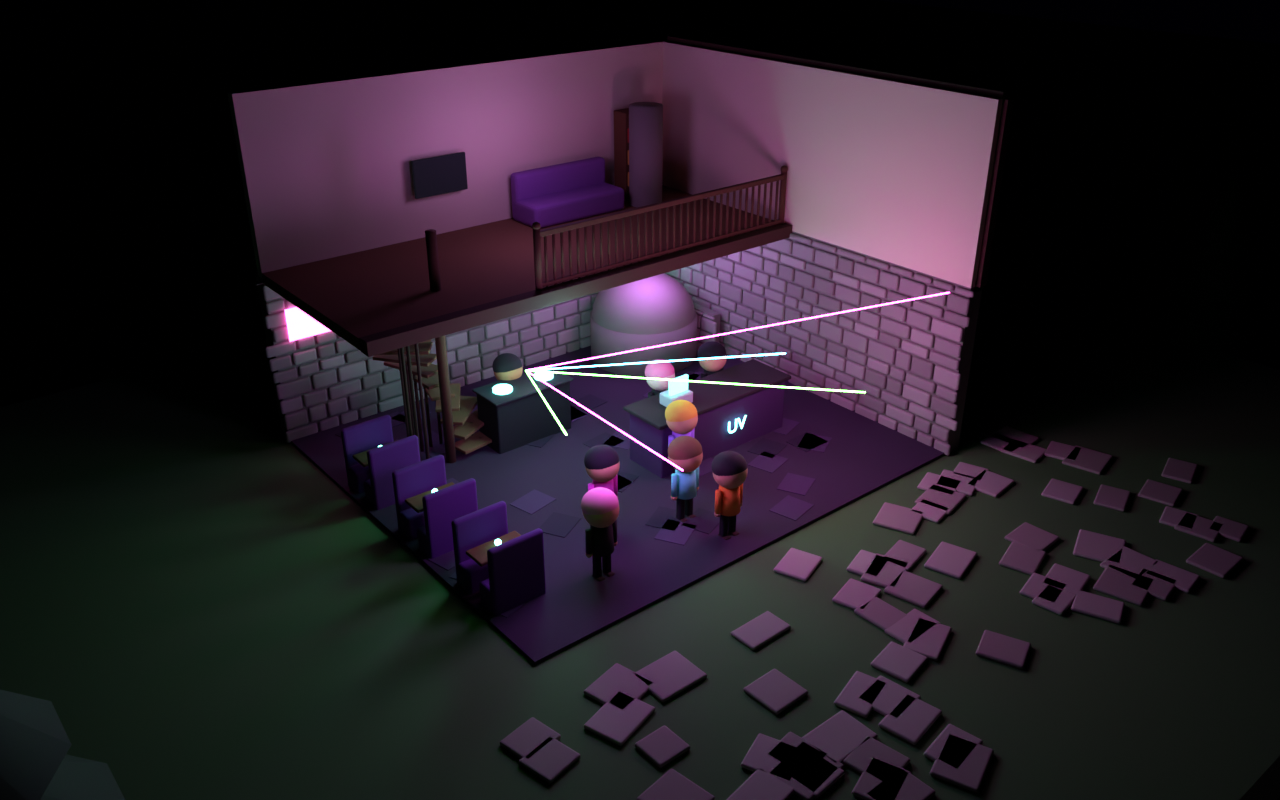
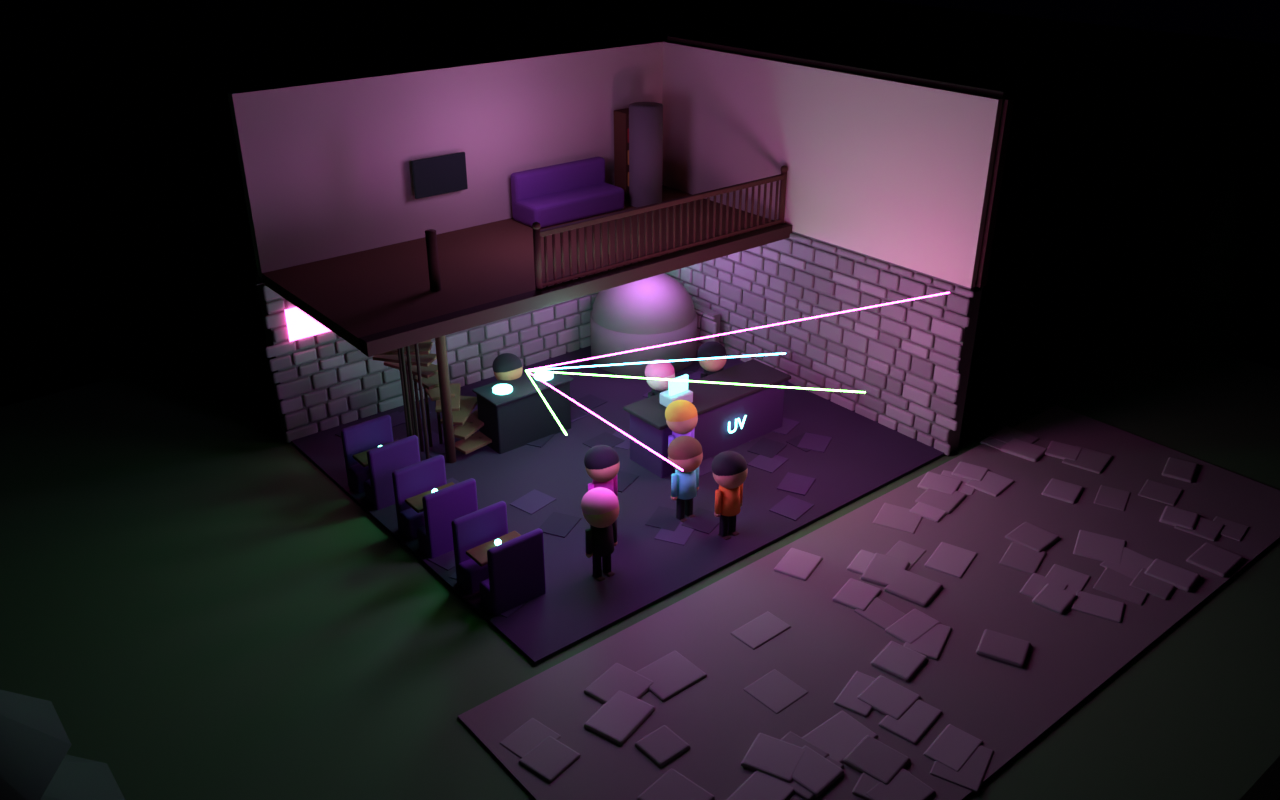
Summit Slice renders re-made (clean cobbles and floor, lean-to annex roof); spec for inspect, whisper, busy bubbles and the shops' music and sound (design/social-and-sound.md)
Claude-Session: https://claude.ai/code/session_01AhHjg2zGLBS9XHge4JaZVX

diff --git a/world-refresh/design/social-and-sound.md b/world-refresh/design/social-and-sound.md
@@ -1,0 +1,87 @@
+# Inspect, whisper, busy bubbles, and shop music (Andrew, 2026-11-16)
+
+Spec of what Andrew asked for, plus what exists and a build plan. Nothing here is built yet.
+
+## 1. Tap / click a player or NPC: a small menu
+- Tap or click any player or NPC: a small pop-up with **Inspect** and **Whisper**.
+
+### Inspect: the character sheet
+- A larger, rotatable view of the character model (drag to turn).
+- **NPC:** who they are and what they do (from `design/characters.md`: name, role, where they work, a line about them).
+- **Player:** who they are, their dog affection levels (Nala, Dax, Molly), their achievements.
+
+### Whisper: private messages
+- To a player or an NPC. Only the sender and receiver ever see it.
+- In the chat log: light purple text.
+- In the world: a speech balloon with a purple outline, visible only to the two involved.
+- **Talking to an NPC directly** = whispering them.
+- **Talking to an NPC indirectly:** type their name, then the message (e.g. "Kevin, how are the fish?"). That focuses the NPC on you.
+  Once you leave their general vicinity the focus resets.
+- No other player can ever see NPC-to-player whispers, or NPCs' replies to them. Players can whisper each other.
+
+### Busy bubble
+- A player in a tutorial, reading something, or in a menu shows a small balloon over their head with three dots that bounce in
+  sequence, so others can see they are busy.
+
+## 2. Music and sound for the new shops
+
+### What exists (breneland-live/js)
+- `music.js`, `music-songs.js`, `music-band.js`, `music-sampler.js`, `music-place.js`: the game's own composed music, played on
+  sampled instruments. Songs are picked by place (yard, town, lake, woods, Lovecraft house, game store, fishing, Kevin's boat) and
+  by hour (brighter mornings, mellower evenings, sparse late). Crossfades between places like a door closing.
+- Game store: counter-talk and high-score songs; D&D back room has its own sound (`dnd-sound.js`). Andrew likes this soundscape.
+- Kevin's Tool Crib: his radio (`crib-sound.js`). Boat: `boat-music.js`. Summit Slice party: `mall-staff-party-sound.js`.
+
+### Wanted
+- **Wooden buildings creak:** every so often boards creak as people walk around and the building settles. Especially the game store,
+  and every new wooden store. Soft, atmospheric, not constant.
+- **Peak Threads:** its own song, the same piece re-voiced through the day:
+  - morning: lighter;
+  - day: standard;
+  - evening, as the day wraps up: lo-fi.
+- **Belinda's Spa (upstairs):** a different, subtly relaxing and calming piece "with a little spice".
+- **Shop ambience** in Peak Threads: hangers sliding, the till, folding, soft footsteps, quiet chatter. Gentle, never intrusive.
+- **Summit Slice by day:** pizza-place vibe, re-voiced over the day the same way.
+- **Summit Slice party** (Wed, Fri and Sat, 11:30 pm to 5 am; the shop swaps about 15 minutes either side):
+  - intense music you can dance to, lo-fi to hi-fi;
+  - "musical guest" sets, all kinds of styles;
+  - the theme is getting down.
+- **Unstable Unicorns area:**
+  - The closer you get to the set, the more the normal music fades out and the area's music fades in.
+  - Magical, light-hearted, poppy, fun tabletop-card-game music in a fantasy setting, re-voiced by time of day.
+  - Real magical sound effects: chimes, shimmer, soft whooshes, sparkles. NOT beeps and boops.
+- **Holiday remixes**, Thanksgiving and Christmas only for now: slight remixes of the shop and area songs.
+
+## 3. Build plan (order)
+1. **Busy bubble.**
+   - The client sends a "busy" flag when a tutorial, a reader or a menu opens.
+   - Everyone draws three bouncing dots over that player.
+   - Needs a small server relay of the flag; it can ride along with the position updates if the server forwards extra fields.
+2. **Tap menu + Inspect, NPCs first.**
+   - Raycast on tap or click.
+   - Pop-up menu, then a sheet with its own small renderer of the model (rotatable).
+   - Facts come from `design/characters.md`, as a JSON export.
+3. **Inspect for players.**
+   - Needs the player's dog affection and achievements.
+   - Their own are local; another player's need a server lookup.
+4. **Whisper.**
+   - Player to player needs a server message that goes only to the target (`{t:'whisper', to, text}`).
+   - The server code is NOT in this repo mirror. Needs the Breneland-Next server, or Andrew adds the relay.
+   - Player to NPC can be fully local (only you see it): the purple balloon is drawn only on your screen.
+   - The NPC replies via the local LLM (LM Studio) using `design/characters.md`.
+5. **Indirect address.**
+   - Chat starting with an NPC's name focuses that NPC on you, privately, while you are near.
+   - The focus resets when you walk away.
+6. **Sound:**
+   - creak layer for wooden interiors;
+   - Peak Threads day song with morning, day and evening voicings, plus shop ambience;
+   - the spa song;
+   - Summit Slice day song plus the party set;
+   - the Unstable Unicorns proximity crossfade plus song and magic sound effects;
+   - holiday variants (a date check in `music.js` and re-voiced instruments).
+   - All go through the existing music system, so they share its style and crossfades.
+
+## Open questions for Andrew
+- Achievements: which ones exist or should exist for the player sheet?
+- Whisper relay: OK to add a server message type in Breneland-Next when we ship?
+- Party "musical guests": named in-game acts (a fictional DJ or band), or just varied sets?
